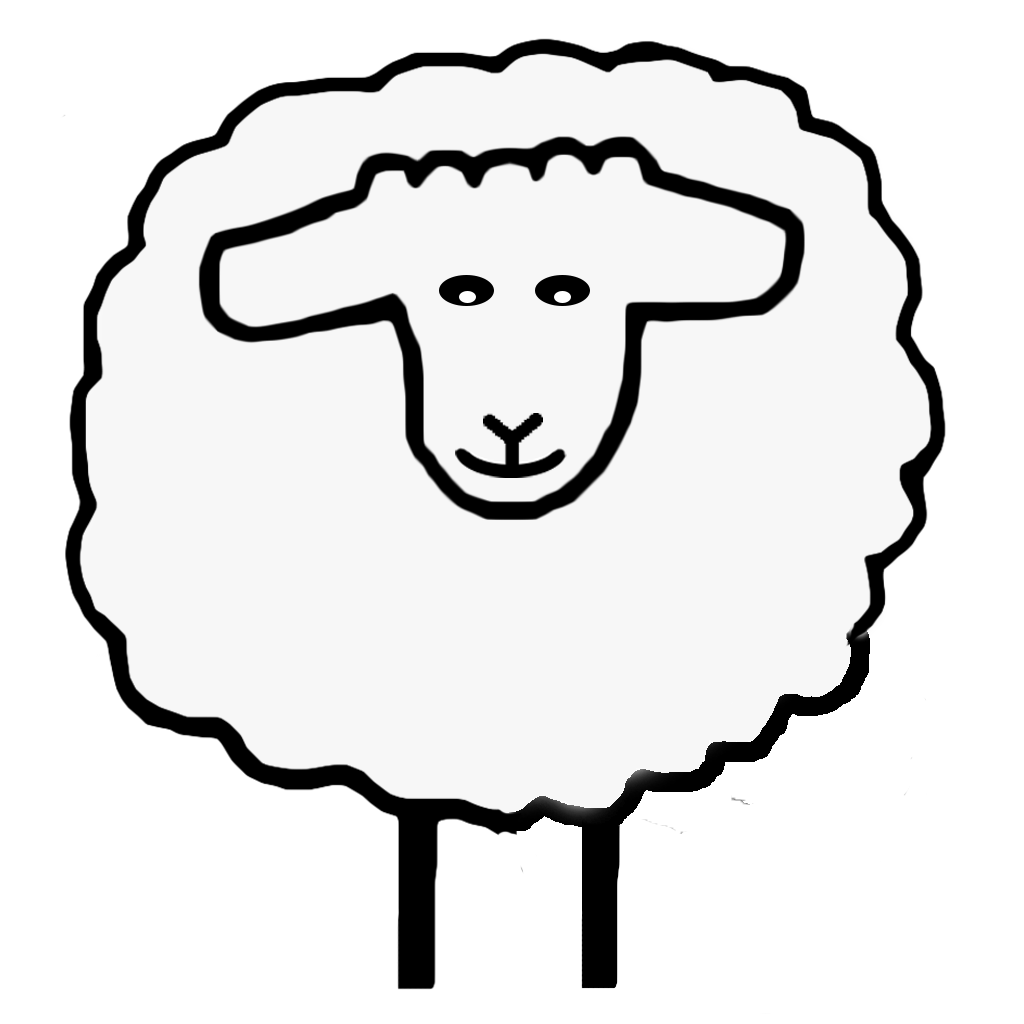
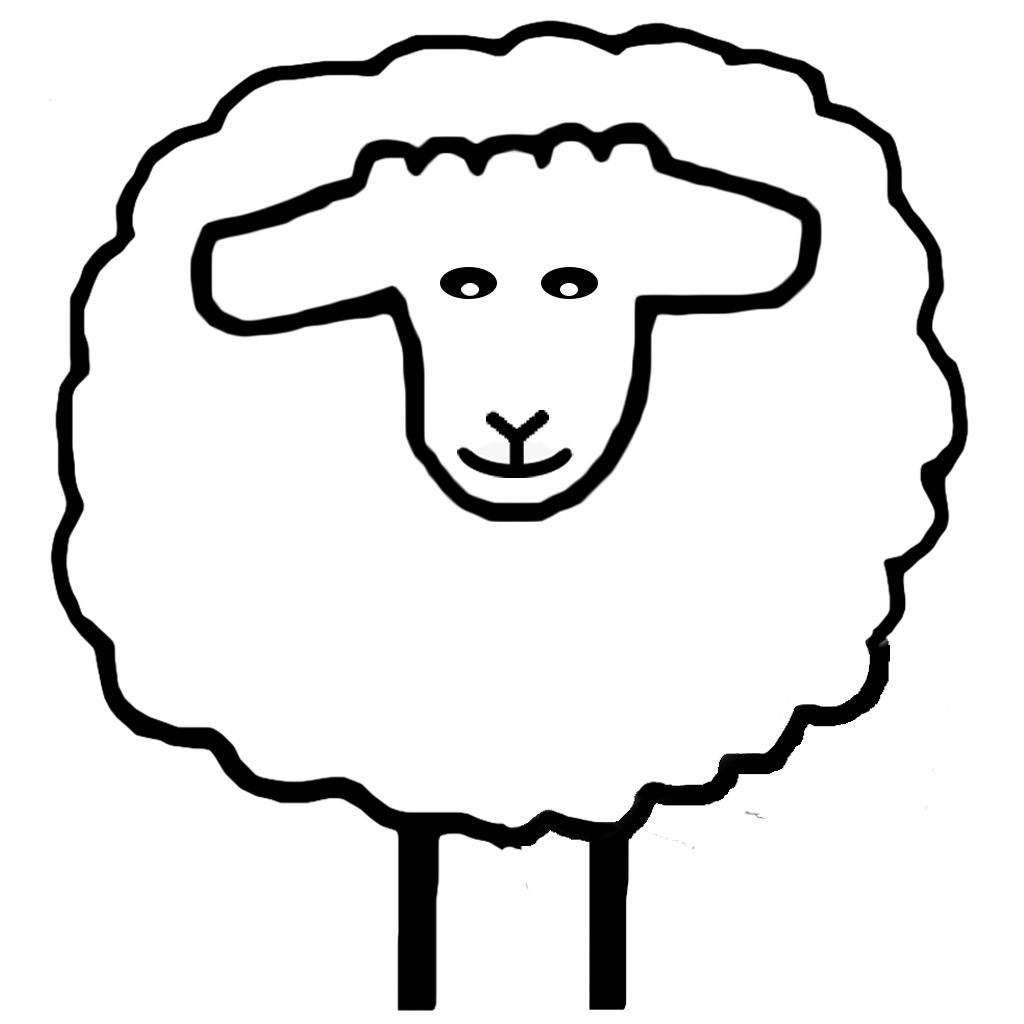
Replaced old sheep image

diff --git a/app/lib/registration_options.dart b/app/lib/registration_options.dart
@@ -23,7 +23,7 @@ class _RegistrationOptionsState extends State<RegistrationOptions> {
             )),
         RegistrationTypeListTile(
           text: 'Sau',
-          assetImageName: 'images/sheep_white.png',
+          assetImageName: 'images/sheep.png',
           onPressed: () {},
         ),
         RegistrationTypeListTile(
